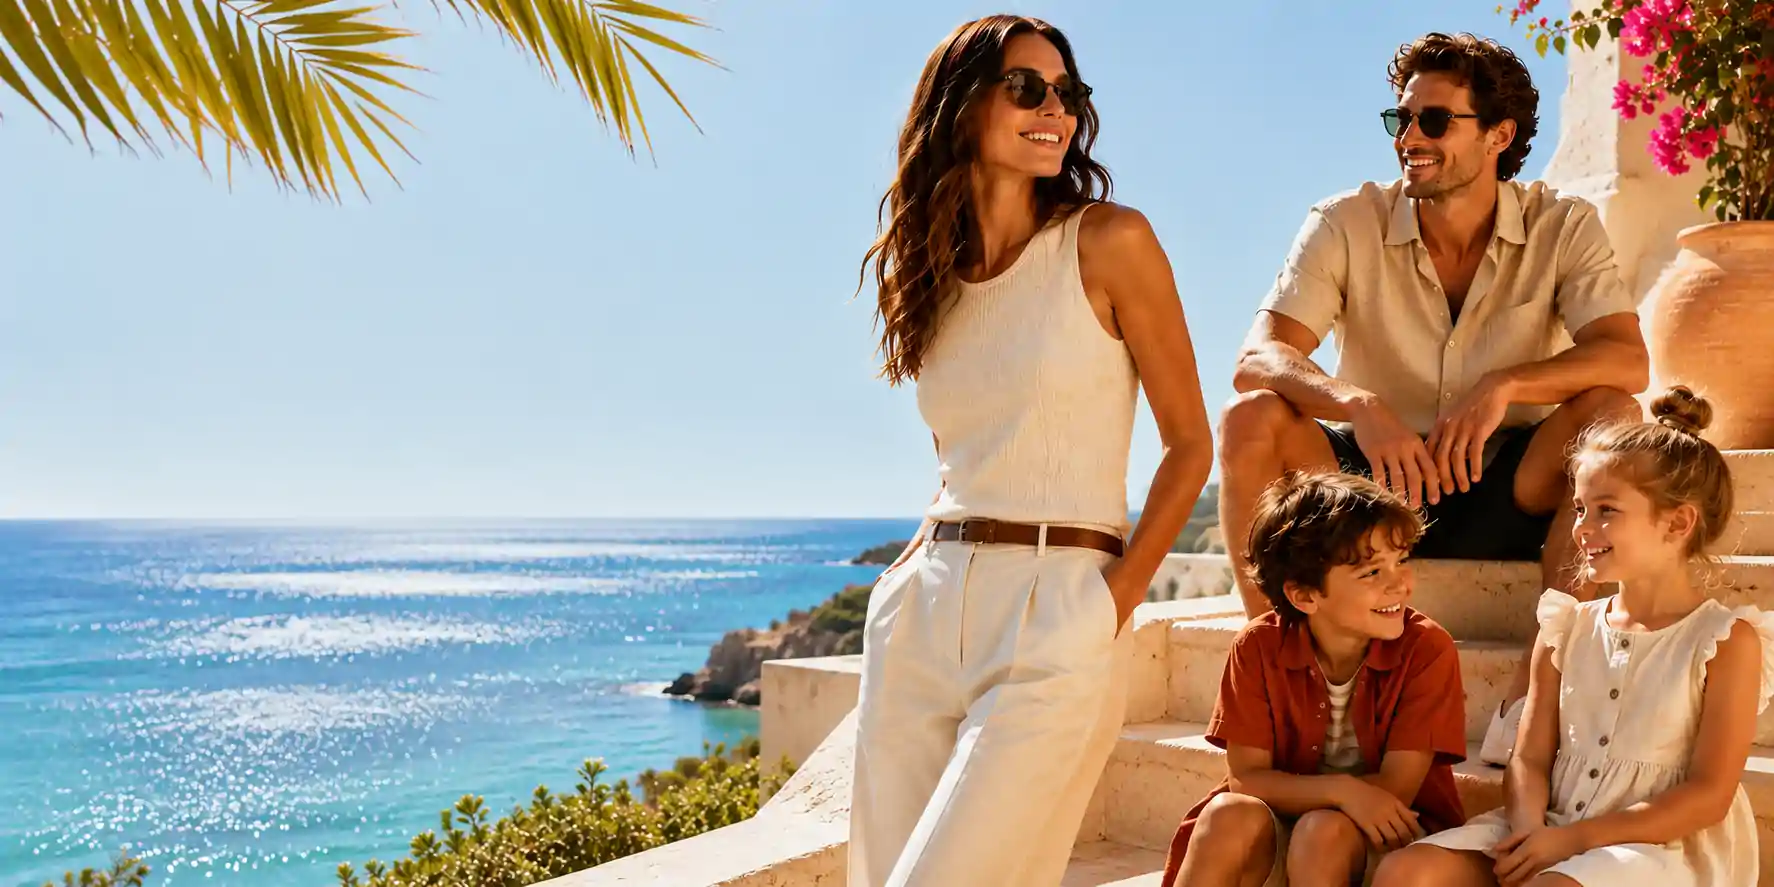
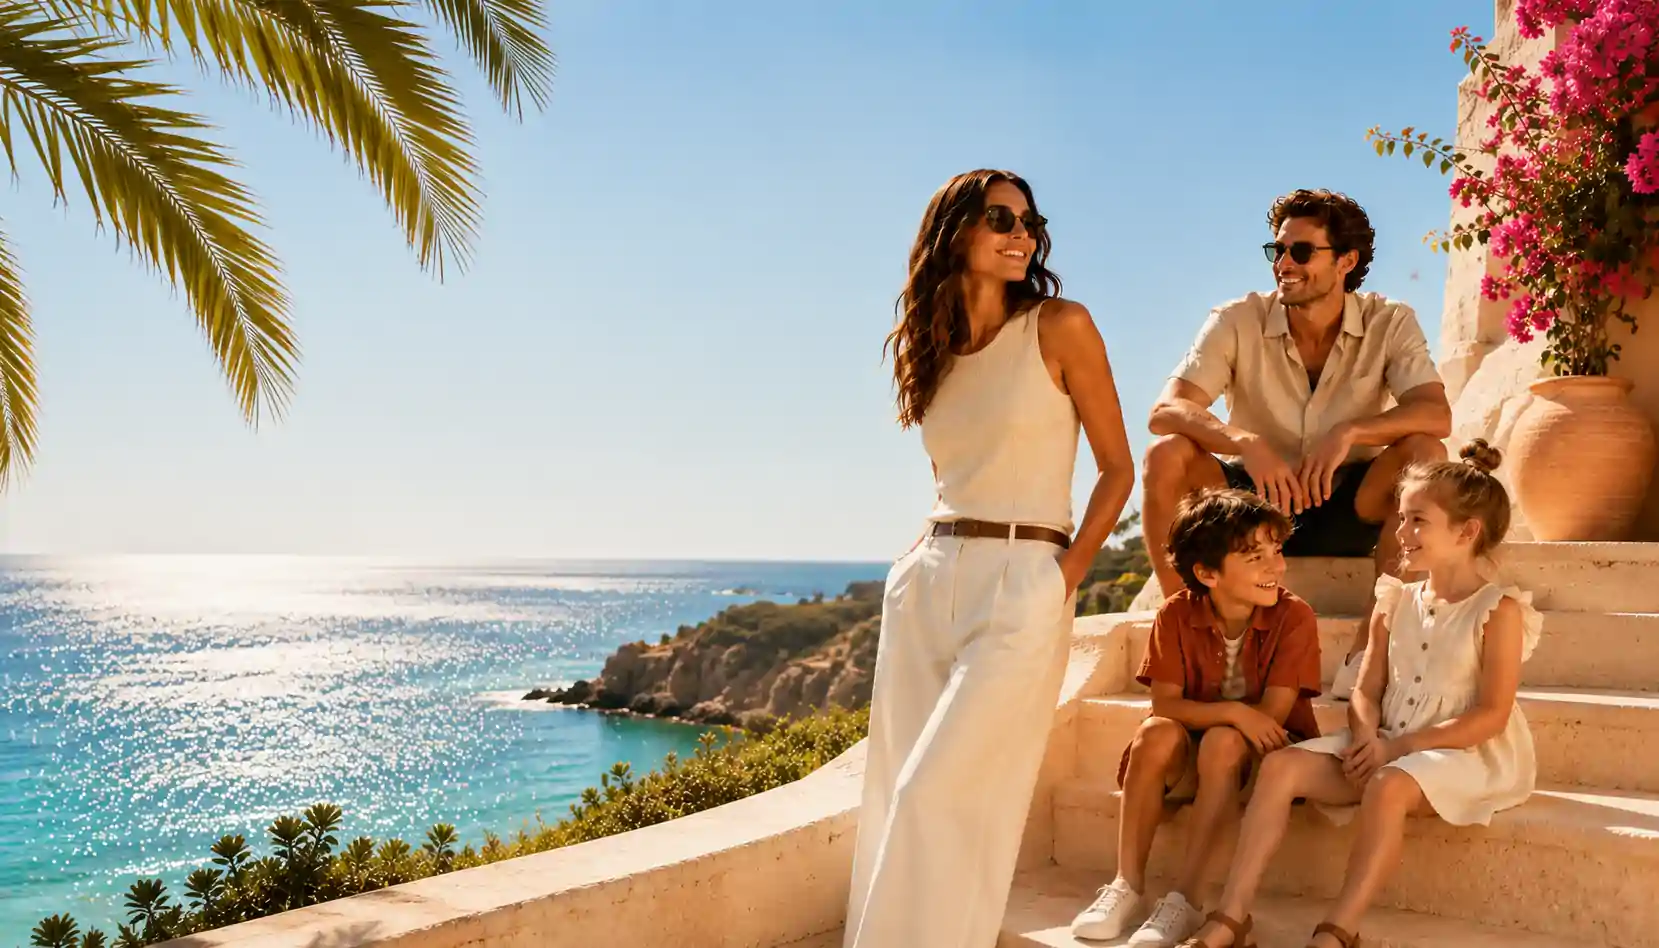
fix

diff --git a/src/component/ui/WidgetRecensioni.jsx b/src/component/ui/WidgetRecensioni.jsx
@@ -1,36 +1,66 @@
+import { useState } from "react";
+import { MdArrowBackIos, MdArrowForwardIos } from "react-icons/md";
+import Recensioni from "../../data/recensioni.json";
 import CardRecensioni from "./layout/CardRecensioni";
-import Recensioni from "../../data/recensioni.json"
 
-
+const REVIEWS_PER_PAGE = 3;
 
 function WidgetRecensioni() {
-    return (
+  const [slideReview, setSlideReview] = useState(0);
+  const lastStartIndex = Math.max(0, Recensioni.length - REVIEWS_PER_PAGE);
+  const visibleReviews = Recensioni.slice(
+    slideReview,
+    slideReview + REVIEWS_PER_PAGE,
+  );
 
-        <>
-            <div className="bg-[#FDFCF9]">
-                <div className="mx-auto max-w-7xl px-4 py-10 sm:px-6 lg:px-8  md:pt-2 md:pb-15">
-                    <div className="w-full">
-                        <div>
-                            <span className="uppercase text-sm font-text text-[#C47048] mt-8">Recensioni</span>
-                        </div>
-                        <div className="flex w-full justify-between items-center">
-                            <h2 className="font-title text-[#211D1A] font-semibold text-title-size text-center lg:text-[2.25rem]">
-                                Amati dai nostri clienti
-                            </h2>
-                        </div>
-                    </div>
-                    <div className="grid grid-cols-1 md:grid-cols-2 lg:grid-cols-3 grid-rows-1 gap-3 md:gap-8">
-                        {Recensioni
-                            .slice(0, 4)
-                            .map((item) => (
-                        <CardRecensioni key={item.id} {...item} />
-                        ))}
-                    </div>
-                </div>
-            </div>
+  const next = () => {
+    setSlideReview((current) => Math.min(current + 1, lastStartIndex));
+  };
 
-        </>
-    )
+  const back = () => {
+    setSlideReview((current) => Math.max(current - 1, 0));
+  };
+
+  return (
+    <section className="bg-[#FDFCF9]">
+      <div className="mx-auto max-w-7xl px-4 py-10 sm:px-6 md:pb-15 md:pt-2 lg:px-8">
+        <span className="mt-8 font-text text-sm uppercase text-[#C47048]">
+          Recensioni
+        </span>
+        <h2 className="font-title text-title-size text-center font-semibold text-[#211D1A] lg:text-[2.25rem]">
+          Amati dai nostri clienti
+        </h2>
+
+        <div className="mt-4 flex items-center gap-4">
+          <button
+            type="button"
+            className="shrink-0 cursor-pointer disabled:cursor-default disabled:opacity-40"
+            onClick={back}
+            disabled={slideReview === 0}
+            aria-label="Mostra le recensioni precedenti"
+          >
+            <MdArrowBackIos className="text-2xl" />
+          </button>
+
+          <div className="grid min-w-0 flex-1 grid-cols-1 gap-3 md:grid-cols-2 md:gap-8 lg:grid-cols-3">
+            {visibleReviews.map((review) => (
+              <CardRecensioni key={review.id} {...review} />
+            ))}
+          </div>
+
+          <button
+            type="button"
+            className="shrink-0 cursor-pointer disabled:cursor-default disabled:opacity-40"
+            onClick={next}
+            disabled={slideReview === lastStartIndex}
+            aria-label="Mostra le recensioni successive"
+          >
+            <MdArrowForwardIos className="text-2xl" />
+          </button>
+        </div>
+      </div>
+    </section>
+  );
 }
 
-export default WidgetRecensioni
+export default WidgetRecensioni;

diff --git a/src/component/ui/layout/CardRecensioni.jsx b/src/component/ui/layout/CardRecensioni.jsx
@@ -1,8 +1,7 @@
-function CardRecensioni( { id, Stars,  Description, Name, City }) {
+function CardRecensioni({ Stars, Description, Name, City }) {
     return (
-        <>
-            <div className="bg-[#F6F4F0] h-auto mt-4 border border-[#DDDAD5] rounded-2xl">
-                <div className="p-5 grid gap-3 font-text">
+        <article className="mt-4 h-auto rounded-2xl border border-[#DDDAD5] bg-[#F6F4F0]">
+            <div className="grid gap-3 p-5 font-text">
 
                     
                     <span>{Stars}</span>
@@ -17,11 +16,8 @@ function CardRecensioni( { id, Stars,  Description, Name, City }) {
                         <span>{City}</span>
                     </div>
                     
-                </div>
-                
-
             </div>
-        </>
+        </article>
     )
 }
 

diff --git a/src/component/pages/Home.jsx b/src/component/pages/Home.jsx
@@ -17,11 +17,12 @@ function Home() {
       <WidgetNuoviArrivi />
       <BannerSaldiEstivi />
       <WidgetSaldi />
-      <IscrivitiRisparmia />
-   
-
-
       <WidgetRecensioni />
+      <IscrivitiRisparmia />
+
+
+
+
     </>
   );
 }
